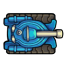
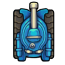
ja rodam pouco

diff --git a/src/org/academiadecodigo/invictus/tanktrouble/Tank/Tank.java b/src/org/academiadecodigo/invictus/tanktrouble/Tank/Tank.java
@@ -5,7 +5,9 @@ import org.academiadecodigo.invictus.tanktrouble.Field.GridPosition;
 import org.academiadecodigo.invictus.tanktrouble.Field.SimpleGfxGrid;
 import org.academiadecodigo.simplegraphics.pictures.Picture;
 
-import java.awt.*;
+import java.awt.geom.AffineTransform;
+import java.awt.image.AffineTransformOp;
+
 
 public class Tank {
     private GridPosition pos;
@@ -22,8 +24,6 @@ public class Tank {
         tank.draw();
     }
 
-    Graphics2D graphics2D = new Graphics2D() {
-    }
 
     public GridPosition getPos() {
 
@@ -38,9 +38,6 @@ public class Tank {
     }
 
 
-    public void accelerate(Direction direction){
-
-    }
 
     public void setDirection(Direction direction) {
         this.direction = direction;
@@ -50,7 +47,7 @@ public class Tank {
 
        switch (direction){
            case RIGHT:
-               this.rotation(-0.5);
+               tank.setRotation(10);
                break;
            case UP:
                tank.translate(0,-2);
@@ -59,15 +56,10 @@ public class Tank {
                tank.translate(0,2);
                break;
            case LEFT:
-               this.rotation(0.5);
+               tank.setRotation(-10);
                break;
            case STOPPED:
                break;
        }
-    }
-
-    public void rotation(Double angle){
-
-
     }
 }

diff --git a/src/org/academiadecodigo/invictus/tanktrouble/Game.java b/src/org/academiadecodigo/invictus/tanktrouble/Game.java
@@ -19,7 +19,7 @@ public class Game {
         while (true){
             player1.move();
             player2.move();
-            Thread.sleep(20);
+            Thread.sleep(16);
         }
     }
 
